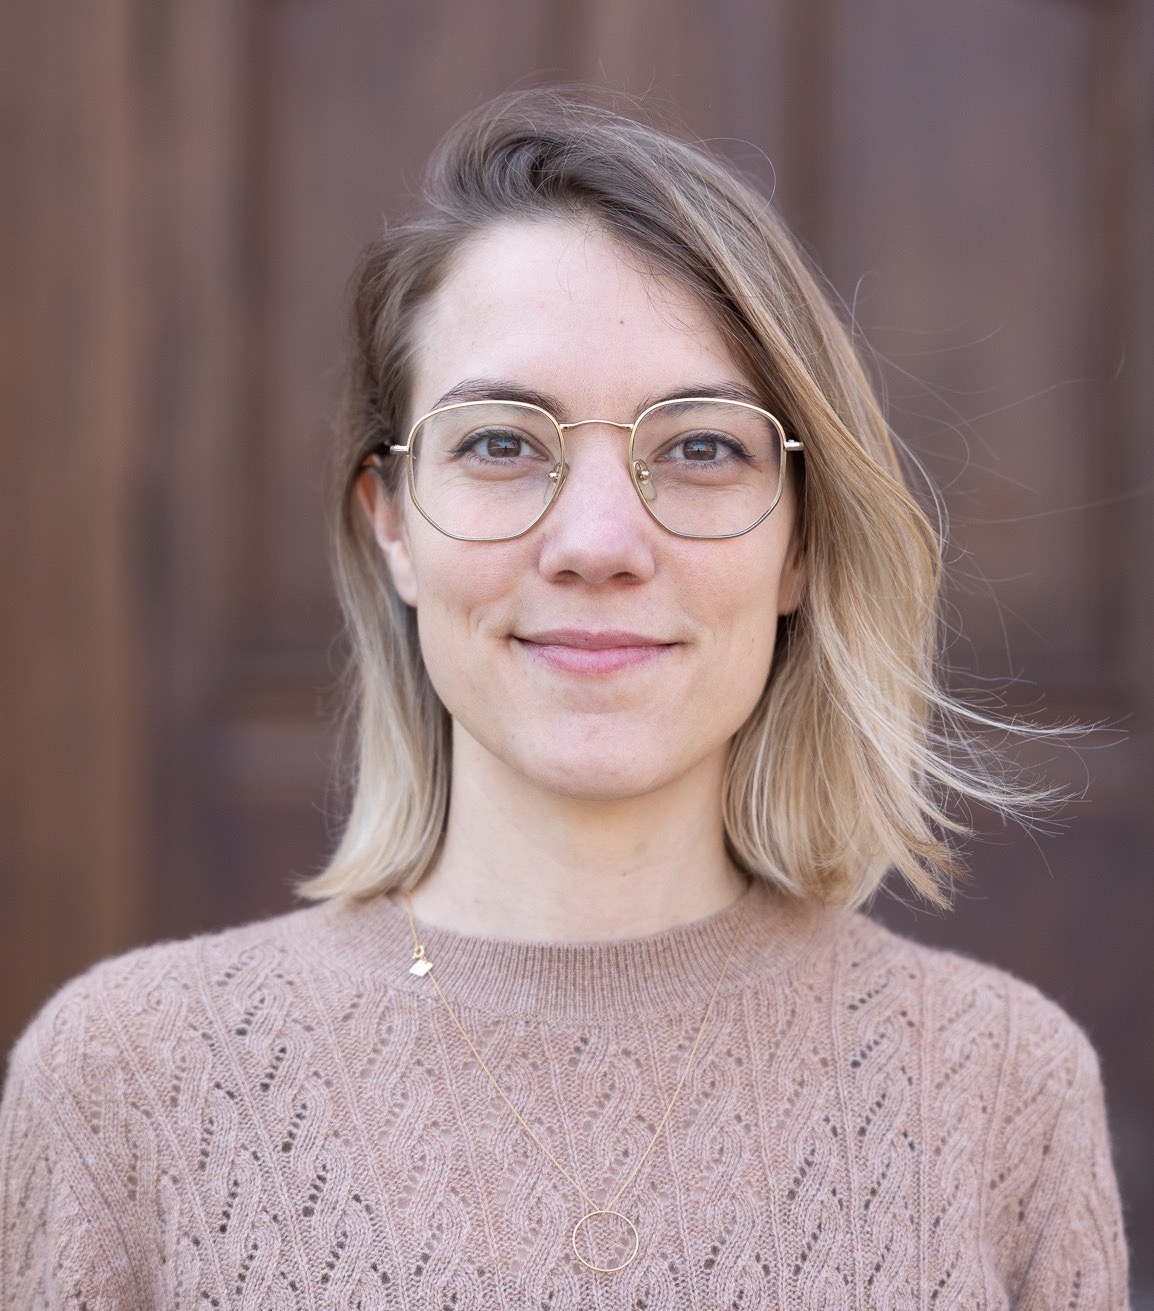
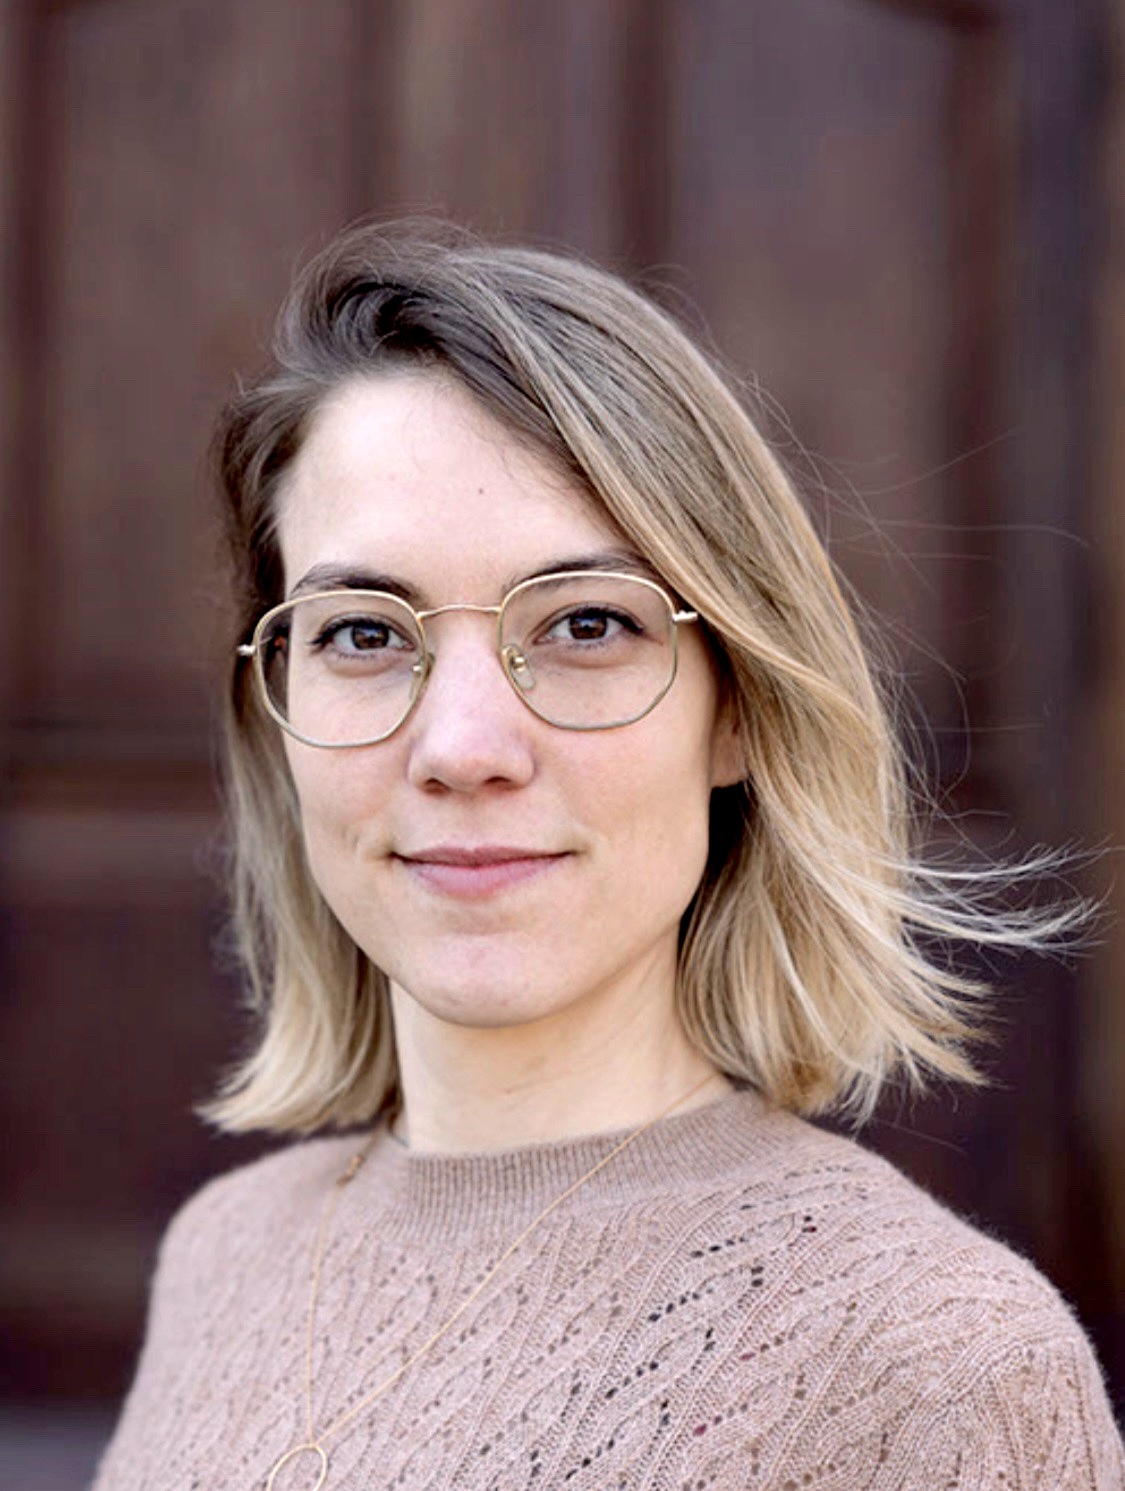
new_version

diff --git a/content/_index.md b/content/_index.md
@@ -1,7 +1,7 @@
 ---
 title: "" 
 images:
-  - img/pers4.jpg
+  - img/pers.jpg
 image_alt_text: ""
 image_right: false
 text_align_left: true
